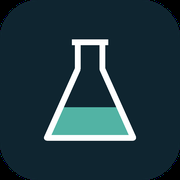
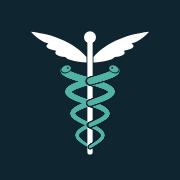
Add files via upload

diff --git a/index.html b/index.html
@@ -7,8 +7,8 @@
 <meta name="description" content="Banco domande per gli esami del semestre filtro: chimica, fisica e biologia.">
 <meta name="theme-color" content="#0f2530">
 <link rel="manifest" href="manifest.webmanifest">
-<link rel="icon" href="icons/icon-192.png" sizes="192x192" type="image/png">
-<link rel="apple-touch-icon" href="icons/icon-180.png">
+<link rel="icon" href="icons/icon-192.png?v=2" sizes="192x192" type="image/png">
+<link rel="apple-touch-icon" href="icons/icon-180.png?v=2">
 <meta name="apple-mobile-web-app-capable" content="yes">
 <meta name="apple-mobile-web-app-status-bar-style" content="black-translucent">
 <meta name="apple-mobile-web-app-title" content="Banco domande">

diff --git a/sw.js b/sw.js
@@ -6,7 +6,7 @@
    si leggono gli indici delle singole materie e da lì i loro lotti e i
    loro appelli ufficiali. */
 
-const VERSIONE = 'v11';
+const VERSIONE = 'v12';
 const CACHE_SHELL = 'banco-chimica-shell-' + VERSIONE;
 const CACHE_DATI = 'banco-chimica-dati-' + VERSIONE;
 

diff --git a/DA-CARICARE.md b/DA-CARICARE.md
@@ -1,18 +1,11 @@
-# Delta: appelli ufficiali 2025
+# Delta: nuova icona (caduceo)
 
-Carica le cartelle così come sono, sovrascrivendo i file esistenti.
+Carica sovrascrivendo:
+- icons/icon-180.png, icon-192.png, icon-512.png, icon-maskable-512.png
+- index.html, manifest.webmanifest   (link alle icone con ?v=2, per forzarne il ricaricamento)
+- sw.js                              (versione v12: rimette in cache il guscio con le icone nuove)
 
-App
-- index.html, app.js, style.css, sw.js   (sezione «Appelli ufficiali», filtro «Fonte»
-                                          nello sfoglio, service worker v11)
-
-Domande
-- questions/<materia>/appelli/          NUOVE cartelle, 2 file per materia (31 quesiti l'uno)
-- questions/<materia>/index.json        registrano gli appelli
-
-Strumenti e documentazione
-- tools/valida.py, README.md, SPEC-NUOVA-MATERIA.md
-
-Banco invariato: nessun lotto toccato, nessun id cambiato.
+Sul telefono l'icona dell'app installata può restare la vecchia per un po':
+se non cambia, rimuovi l'app dalla schermata Home e aggiungila di nuovo.
 
 Questo file non va caricato.
